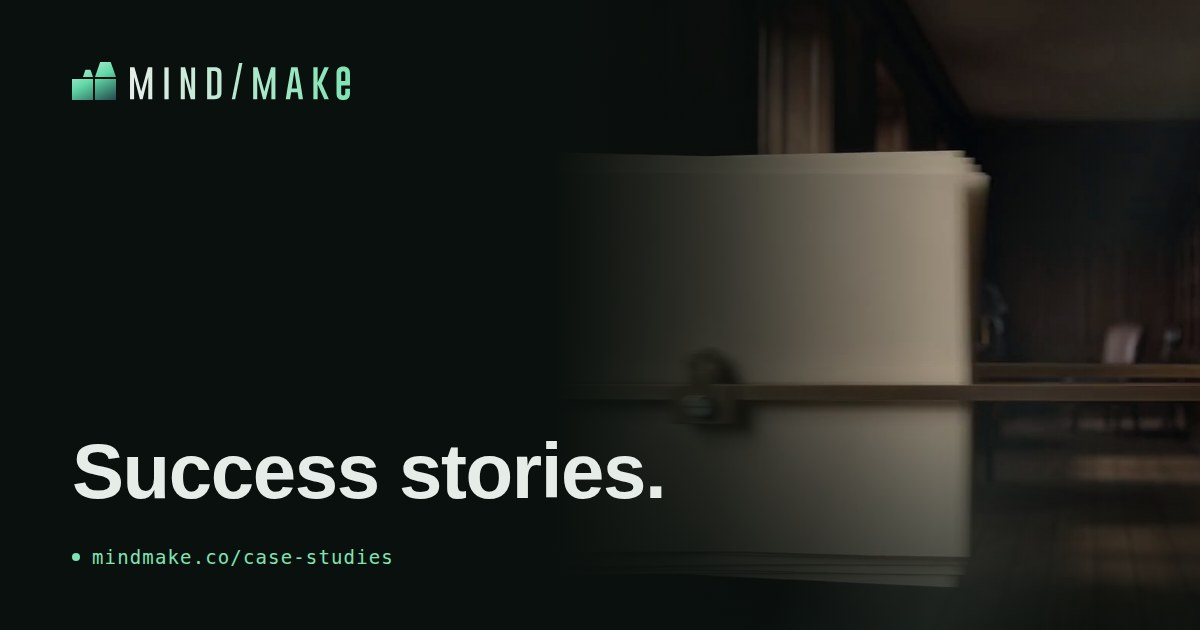
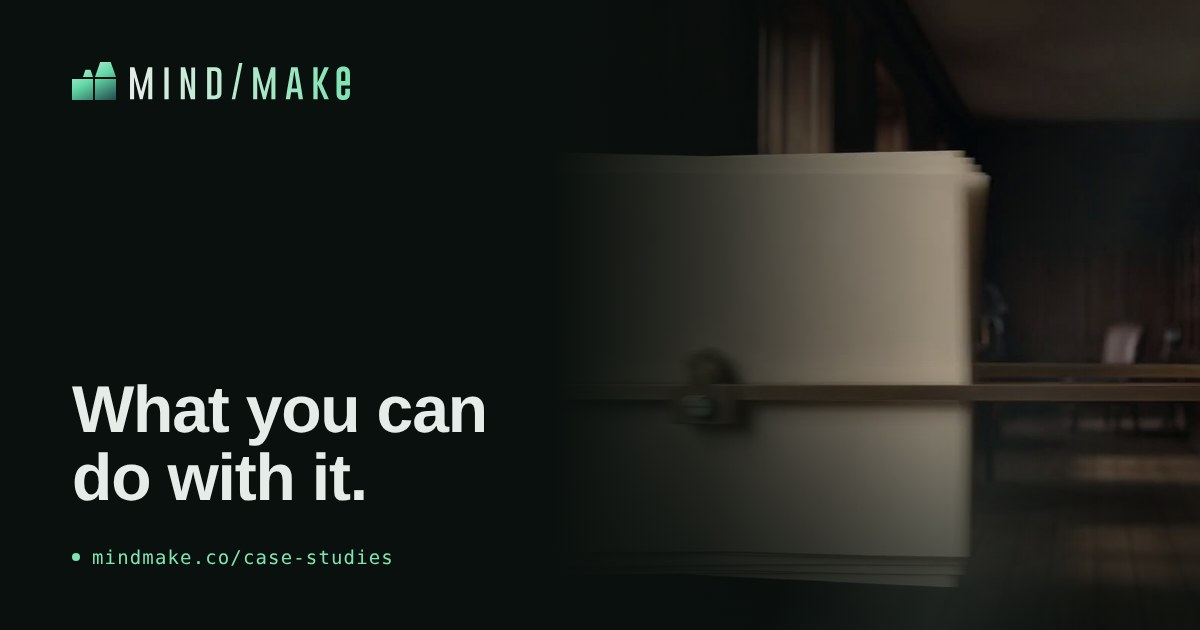
One library: "What you can do with it." (approved)
Krish approved mock v2 on 4 November 2026 ("approved, merge the mock").

- /case-studies is "What you can do with it.": the heading sits inside the
  finder on its one left edge, then a filled switch (AI brain / AI revenue
  engine) above that product's situations. The result archive below is
  "Every result on the record."
- /ai-brain shows only the brain's situations; /ai-gtm shows only the
  revenue engine's, in place of the single testimonial.
- The menu, page metadata, social plate and shared language say
  "What you can do"; the homepage's two links become one.
- Arrow keys move only through the chosen product's situations.
- /new-age-leadership keeps every situation, with no switch.
- discoverability-check honours PLAYWRIGHT_CHROMIUM like the other checks.

The route lock is regenerated in this commit for these intended edits.

Claude-Session: https://claude.ai/code/session_01JRhKyrb4ihPjkr4JWALfNp

Changed region(s): [[0.0617, 0.6032, 0.555, 0.8143], [0.0617, 0.8746, 0.3392, 0.9048]]

diff --git a/src/components/homepage-release/markup.ts b/src/components/homepage-release/markup.ts
@@ -51,16 +51,16 @@ export const homepageMarkup = `<a class="skip-link" href="#history">Skip to the 
                 </div>
               </section>
             </div></div></section>
-      ${homepageSectionsMarkup()}<section id="footer" class="r3-footer r3-reveal" data-component="footer"><div class="r3-variant preview-desktop"><footer class="site-footer" data-structure-desktop="rail" data-density-desktop="compact" data-brand="full" data-statement="short" data-routes="single" data-legal="bottom" data-copyright="short" data-ground="dark" data-rule="accent" data-reveal="scroll"><div class="brand-block"><a class="brand" href="/" aria-label="Mindmake home"><img class="mark" src="${asset0}" alt=""><img class="wordmark" src="${asset1}" alt="Mindmake"></a><p class="footer-statement">Keep your edge as AI<br>changes the market.</p><a class="mm-subscribe-cta" href="https://makeyourmindup.ai" target="_blank" rel="noreferrer" data-subscribe-source="homepage_footer">Subscribe for free <span aria-hidden="true">↗</span></a></div><nav class="footer-routes" aria-label="Footer navigation"><a href="/">Home</a><a href="/ai-brain">Build your AI brain</a><a href="/ai-gtm">Build your AI revenue engine</a><a href="/case-studies">Success stories</a><a href="/blog">Ideas you can use</a><a href="/faq">Questions we get asked</a><a href="/about">About us</a><a href="https://makeyourmindup.ai" target="_blank" rel="noreferrer">Media</a><a href="/start">Start building your AI brain</a></nav><nav class="legal" aria-label="Legal navigation"><a href="/privacy">Privacy</a><a href="/terms">Terms</a></nav><small>© 2026 Mindmake. <span class="mm-entity-note"><span>Mindmake is a Mindmaker LLC company.</span> <span>Mindmaker Ltd in the UK.</span></span></small></footer></div><div class="r3-variant preview-mobile"><footer class="site-footer" data-structure-mobile="compact" data-density-mobile="compact" data-brand="full" data-statement="short" data-routes="single" data-legal="bottom" data-copyright="short" data-ground="dark" data-rule="accent" data-reveal="scroll"><div class="brand-block"><a class="brand" href="/" aria-label="Mindmake home"><img class="mark" src="${asset0}" alt=""><img class="wordmark" src="${asset1}" alt="Mindmake"></a><p class="footer-statement">Keep your edge as AI<br>changes the market.</p><a class="mm-subscribe-cta" href="https://makeyourmindup.ai" target="_blank" rel="noreferrer" data-subscribe-source="homepage_footer">Subscribe for free <span aria-hidden="true">↗</span></a></div><nav class="legal" aria-label="Legal navigation"><a href="/privacy">Privacy</a><a href="/terms">Terms</a></nav><small>© 2026 Mindmake. <span class="mm-entity-note"><span>Mindmake is a Mindmaker LLC company.</span> <span>Mindmaker Ltd in the UK.</span></span></small></footer></div></section>
+      ${homepageSectionsMarkup()}<section id="footer" class="r3-footer r3-reveal" data-component="footer"><div class="r3-variant preview-desktop"><footer class="site-footer" data-structure-desktop="rail" data-density-desktop="compact" data-brand="full" data-statement="short" data-routes="single" data-legal="bottom" data-copyright="short" data-ground="dark" data-rule="accent" data-reveal="scroll"><div class="brand-block"><a class="brand" href="/" aria-label="Mindmake home"><img class="mark" src="${asset0}" alt=""><img class="wordmark" src="${asset1}" alt="Mindmake"></a><p class="footer-statement">Keep your edge as AI<br>changes the market.</p><a class="mm-subscribe-cta" href="https://makeyourmindup.ai" target="_blank" rel="noreferrer" data-subscribe-source="homepage_footer">Subscribe for free <span aria-hidden="true">↗</span></a></div><nav class="footer-routes" aria-label="Footer navigation"><a href="/">Home</a><a href="/ai-brain">Build your AI brain</a><a href="/ai-gtm">Build your AI revenue engine</a><a href="/case-studies">What you can do</a><a href="/blog">Ideas you can use</a><a href="/faq">Questions we get asked</a><a href="/about">About us</a><a href="https://makeyourmindup.ai" target="_blank" rel="noreferrer">Media</a><a href="/start">Start building your AI brain</a></nav><nav class="legal" aria-label="Legal navigation"><a href="/privacy">Privacy</a><a href="/terms">Terms</a></nav><small>© 2026 Mindmake. <span class="mm-entity-note"><span>Mindmake is a Mindmaker LLC company.</span> <span>Mindmaker Ltd in the UK.</span></span></small></footer></div><div class="r3-variant preview-mobile"><footer class="site-footer" data-structure-mobile="compact" data-density-mobile="compact" data-brand="full" data-statement="short" data-routes="single" data-legal="bottom" data-copyright="short" data-ground="dark" data-rule="accent" data-reveal="scroll"><div class="brand-block"><a class="brand" href="/" aria-label="Mindmake home"><img class="mark" src="${asset0}" alt=""><img class="wordmark" src="${asset1}" alt="Mindmake"></a><p class="footer-statement">Keep your edge as AI<br>changes the market.</p><a class="mm-subscribe-cta" href="https://makeyourmindup.ai" target="_blank" rel="noreferrer" data-subscribe-source="homepage_footer">Subscribe for free <span aria-hidden="true">↗</span></a></div><nav class="legal" aria-label="Legal navigation"><a href="/privacy">Privacy</a><a href="/terms">Terms</a></nav><small>© 2026 Mindmake. <span class="mm-entity-note"><span>Mindmake is a Mindmaker LLC company.</span> <span>Mindmaker Ltd in the UK.</span></span></small></footer></div></section>
     </main>
     <aside class="r3-navigation" aria-hidden="true" aria-label="Site navigation" role="dialog" aria-modal="true" inert><div class="r3-variant preview-desktop"><div class="site-frame" data-structure-desktop="index" data-scale-desktop="balanced" data-density-desktop="balanced" data-order="build" data-secondary="footer" data-active="rule" data-action="bar" data-ground="solid" data-entrance="stepped">
               
               <div class="ground" aria-hidden="true"></div>
               <header class="site-masthead"><a class="brand" href="/" aria-label="Mindmake home" tabindex="-1"><img class="mark" src="${asset0}" alt=""><img class="wordmark" src="${asset1}" alt="Mindmake"></a><button class="menu-control" type="button" aria-label="Close navigation"><b>Close</b><i aria-hidden="true"></i></button></header>
-              <div class="menu-surface"><nav class="primary-routes" aria-label="Main navigation"><a href="/">Home</a><a href="/ai-brain">Build your AI brain</a><a href="/ai-gtm"><span>Build your AI revenue<span class="mm-route-tail"> engine</span></span></a><a href="/case-studies">Success stories</a><a href="/blog">Ideas you can use</a><a href="/faq">Questions we get asked</a><a href="/about">About us</a><a href="https://makeyourmindup.ai" target="_blank" rel="noreferrer" class="mm-route-badged" data-badge="Subscribe for free">Media</a></nav><a class="start-action" type="button" href="/start">Start building your AI brain <span aria-hidden="true">→</span></a><nav class="secondary-routes" aria-label="Additional navigation"><a href="/privacy">Privacy</a><a href="/terms">Terms</a></nav></div>
+              <div class="menu-surface"><nav class="primary-routes" aria-label="Main navigation"><a href="/">Home</a><a href="/ai-brain">Build your AI brain</a><a href="/ai-gtm"><span>Build your AI revenue<span class="mm-route-tail"> engine</span></span></a><a href="/case-studies">What you can do</a><a href="/blog">Ideas you can use</a><a href="/faq">Questions we get asked</a><a href="/about">About us</a><a href="https://makeyourmindup.ai" target="_blank" rel="noreferrer" class="mm-route-badged" data-badge="Subscribe for free">Media</a></nav><a class="start-action" type="button" href="/start">Start building your AI brain <span aria-hidden="true">→</span></a><nav class="secondary-routes" aria-label="Additional navigation"><a href="/privacy">Privacy</a><a href="/terms">Terms</a></nav></div>
             </div></div><div class="r3-variant preview-mobile"><div class="site-frame" data-structure-mobile="list" data-scale-mobile="balanced" data-density-mobile="balanced" data-order="build" data-secondary="footer" data-active="rule" data-action="bar" data-ground="solid" data-entrance="stepped">
               
               <div class="ground" aria-hidden="true"></div>
               <header class="site-masthead"><a class="brand" href="/" aria-label="Mindmake home" tabindex="-1"><img class="mark" src="${asset0}" alt=""><img class="wordmark" src="${asset1}" alt="Mindmake"></a><button class="menu-control" type="button" aria-label="Close navigation"><b>Close</b><i aria-hidden="true"></i></button></header>
-              <div class="menu-surface"><nav class="primary-routes" aria-label="Main navigation"><a href="/">Home</a><a href="/ai-brain">Build your AI brain</a><a href="/ai-gtm"><span>Build your AI revenue<span class="mm-route-tail"> engine</span></span></a><a href="/case-studies">Success stories</a><a href="/blog">Ideas you can use</a><a href="/faq">Questions we get asked</a><a href="/about">About us</a><a href="https://makeyourmindup.ai" target="_blank" rel="noreferrer" class="mm-route-badged" data-badge="Subscribe for free">Media</a></nav><a class="start-action" type="button" href="/start">Start building your AI brain <span aria-hidden="true">→</span></a><nav class="secondary-routes" aria-label="Additional navigation"><a href="/privacy">Privacy</a><a href="/terms">Terms</a></nav></div>
+              <div class="menu-surface"><nav class="primary-routes" aria-label="Main navigation"><a href="/">Home</a><a href="/ai-brain">Build your AI brain</a><a href="/ai-gtm"><span>Build your AI revenue<span class="mm-route-tail"> engine</span></span></a><a href="/case-studies">What you can do</a><a href="/blog">Ideas you can use</a><a href="/faq">Questions we get asked</a><a href="/about">About us</a><a href="https://makeyourmindup.ai" target="_blank" rel="noreferrer" class="mm-route-badged" data-badge="Subscribe for free">Media</a></nav><a class="start-action" type="button" href="/start">Start building your AI brain <span aria-hidden="true">→</span></a><nav class="secondary-routes" aria-label="Additional navigation"><a href="/privacy">Privacy</a><a href="/terms">Terms</a></nav></div>
             </div></div></aside>`;

diff --git a/src/components/leadership-chapters/storyFinder.ts b/src/components/leadership-chapters/storyFinder.ts
@@ -74,29 +74,31 @@ export interface StoryFinderMarkupOptions {
   kicker?: boolean;
   /**
    * Which product's stories (proposal for Krish, 2026-11-04: one library, one
-   * card, sorted by product). A product page shows only its own; "all" is the
-   * library on /case-studies, which opens with the choice of product.
+   * card, sorted by product; approved 4 November 2026). A product page shows
+   * only its own; "library" is /case-studies, which opens with the choice of
+   * product. Left out, every situation shows with no choice, as on
+   * /new-age-leadership.
    */
-  door?: "brain" | "gtm" | "all";
+  door?: "brain" | "gtm" | "library";
   /** A page heading and line set inside the finder, so they share its one left edge and its ground. */
   intro?: { title: string; lede: string };
 }
 
 const DOOR_LABEL = { brain: "AI brain", gtm: "AI revenue engine" } as const;
 
-export function storyFinderMarkup(stories: readonly LeadershipStory[], { kicker = true, door = "all", intro }: StoryFinderMarkupOptions = {}) {
-  const shown = door === "all" ? SITUATIONS : SITUATIONS.filter((s) => s.door === door);
+export function storyFinderMarkup(stories: readonly LeadershipStory[], { kicker = true, door, intro }: StoryFinderMarkupOptions = {}) {
+  const shown = door === "brain" || door === "gtm" ? SITUATIONS.filter((s) => s.door === door) : SITUATIONS;
   const first = shown[0]?.door ?? "brain";
-  const tabs = shown.map((s, i) => `<button type="button" role="tab" id="finder-tab-${s.id}" aria-controls="finder-panel-${s.id}" aria-selected="${i === 0}" tabindex="${i === 0 ? 0 : -1}" data-finder-tab="${s.id}" data-finder-door="${s.door}"${door === "all" && s.door !== first ? " hidden" : ""}>${s.label}</button>`).join("");
-  const doors = door === "all" ? `<div class="finder-doors" role="group" aria-label="What do you want to build?">${(["brain", "gtm"] as const).map((d) => `<button type="button" data-finder-pick="${d}" aria-pressed="${d === first}">${DOOR_LABEL[d]}</button>`).join("")}</div>` : "";
+  const tabs = shown.map((s, i) => `<button type="button" role="tab" id="finder-tab-${s.id}" aria-controls="finder-panel-${s.id}" aria-selected="${i === 0}" tabindex="${i === 0 ? 0 : -1}" data-finder-tab="${s.id}" data-finder-door="${s.door}"${door === "library" && s.door !== first ? " hidden" : ""}>${s.label}</button>`).join("");
+  const doors = door === "library" ? `<div class="finder-doors" role="group" aria-label="What do you want to build?">${(["brain", "gtm"] as const).map((d) => `<button type="button" data-finder-pick="${d}" aria-pressed="${d === first}">${DOOR_LABEL[d]}</button>`).join("")}</div>` : "";
   const panels = shown.map((s, i) => {
     const cards = s.cards.map((start, n) => card(storyByStart(stories, start), s.door, `${s.id}-${n + 1}`)).join("");
     return `<div class="finder-panel${i === 0 ? " is-active" : ""}" role="tabpanel" id="finder-panel-${s.id}" aria-labelledby="finder-tab-${s.id}" data-finder-panel="${s.id}"><h3 class="finder-situation">${s.label}</h3><ul class="finder-rail" data-finder-rail>${cards}</ul><div class="finder-nav"><button type="button" data-finder-prev aria-label="Previous story">←</button><p><span data-finder-at>1</span> of ${s.cards.length}</p><button type="button" data-finder-next aria-label="Next story">→</button></div></div>`;
   }).join("");
   const label = kicker ? `<p class="kicker" id="proof-title"><span></span>What your AI Brain makes possible</p>` : "";
-  const question = door === "all" ? "What do you want to build?" : "Where would you start?";
+  const question = door === "library" ? "What do you want to build?" : "Where would you start?";
   const head = intro ? `<div class="finder-intro"><h1 id="library-title">${esc(intro.title)}</h1><p>${esc(intro.lede)}</p></div>` : "";
-  return `<div class="story-finder${door === "all" ? " is-library" : ""}" data-story-finder>${head}${label}<h2 class="finder-question">${question}</h2>${doors}<div class="finder-tabs" role="tablist" aria-label="Where would you start?">${tabs}</div><div class="finder-panels">${panels}</div><dialog class="finder-sheet" data-finder-sheet aria-label="Story"><button type="button" class="finder-close" data-finder-close aria-label="Close">×</button><div data-finder-sheet-body></div></dialog></div>`;
+  return `<div class="story-finder${door === "library" ? " is-library" : ""}" data-story-finder>${head}${label}<h2 class="finder-question">${question}</h2>${doors}<div class="finder-tabs" role="tablist" aria-label="Where would you start?">${tabs}</div><div class="finder-panels">${panels}</div><dialog class="finder-sheet" data-finder-sheet aria-label="Story"><button type="button" class="finder-close" data-finder-close aria-label="Close">×</button><div data-finder-sheet-body></div></dialog></div>`;
 }
 
 export interface StoryFinderOptions {
@@ -146,11 +148,14 @@ export function mountStoryFinder(root: HTMLElement, { reduced, onStart }: StoryF
     tab.addEventListener("click", () => select(i), { signal });
     tab.addEventListener("keydown", (event) => {
       const step = event.key === "ArrowRight" || event.key === "ArrowDown" ? 1 : event.key === "ArrowLeft" || event.key === "ArrowUp" ? -1 : 0;
-      if (event.key === "Home") { event.preventDefault(); select(0, true); return; }
-      if (event.key === "End") { event.preventDefault(); select(tabs.length - 1, true); return; }
+      /* Only the chosen product's situations are tabs the reader can reach. */
+      const shown = tabs.map((_, n) => n).filter((n) => !tabs[n].hidden);
+      const at = shown.indexOf(i);
+      if (event.key === "Home") { event.preventDefault(); select(shown[0], true); return; }
+      if (event.key === "End") { event.preventDefault(); select(shown[shown.length - 1], true); return; }
       if (!step) return;
       event.preventDefault();
-      select((i + step + tabs.length) % tabs.length, true);
+      select(shown[(at + step + shown.length) % shown.length], true);
     }, { signal });
   });
 

diff --git a/src/components/homepage-release/homepageSections.ts b/src/components/homepage-release/homepageSections.ts
@@ -107,7 +107,7 @@ export function homepageSectionsMarkup() {
   const acts = leadershipScenes.map(([, poster], index) => `<li>${cardImage(poster)}<b>${ACTS[index].word}</b><span>${ACTS[index].line}</span></li>`).join("");
   return `<section id="history" class="hs-section hs-problem" aria-labelledby="hs-problem-title"><div class="hs-inner"><h2 id="hs-problem-title" class="hs-title">Every new technology asks us to change how we think.</h2><p class="hs-lede">History shows we resist new technology at first. With AI, resisting is the fastest way to become replaceable. The answer is to use it to make yourself better, not only to make things easier.</p><div class="hs-rail" data-hs-rail><ul class="hs-eras" data-hs-rail-track aria-label="Four times we have been here before, oldest first">${ERAS.map(eraMarkup).join("")}</ul>${railNav("era", ERAS.map((era) => era.stop))}</div><p class="hs-close">Every time, the people who kept their own judgement and put it to work came out ahead.</p></div></section>
       <section class="hs-section hs-how" aria-labelledby="hs-how-title"><div class="hs-inner"><h2 id="hs-how-title" class="hs-title">An AI chief of staff knows how you think.</h2><p class="hs-lede">Your AI brain is a private memory for your AI tools, so they get smarter over time instead of forgetting. It holds what you want to be good at, your taste and your standards, so you can trust its answers.</p><div class="nal-page mm-home-leadership hs-org"><div class="hybrid-organisation is-active"><p class="instrument-label"><span></span>New-age leadership</p>${organisationGridMarkup}</div></div><p class="hs-carries"><span><b>AI carries</b> gather, connect, compare, monitor, prepare</span> <span><b>You keep</b> taste, judgement, relationships, the decision</span></p><ul class="hs-acts" aria-label="What the AI carries, in three steps">${acts}</ul></div></section>
-      <section class="hs-section hs-get" aria-labelledby="hs-get-title"><div class="hs-inner"><h2 id="hs-get-title" class="hs-title">We build yours with you in 30 days, and teach you to grow it.</h2><p class="hs-lede">It does not need your company's sensitive data. Your goals, ideas and habits are enough to start.</p><ul class="hs-proof">${PROOF.map(proofMarkup).join("")}</ul><p class="hs-proof-links"><a href="/ai-brain#stories">See where you would start</a> <a href="/case-studies">Success stories</a></p><div class="hs-start">${startButton()}</div></div></section>
+      <section class="hs-section hs-get" aria-labelledby="hs-get-title"><div class="hs-inner"><h2 id="hs-get-title" class="hs-title">We build yours with you in 30 days, and teach you to grow it.</h2><p class="hs-lede">It does not need your company's sensitive data. Your goals, ideas and habits are enough to start.</p><ul class="hs-proof">${PROOF.map(proofMarkup).join("")}</ul><p class="hs-proof-links"><a href="/case-studies">See what you can do with it</a></p><div class="hs-start">${startButton()}</div></div></section>
       `;
 }
 

diff --git a/src/test/ai-gtm-page.test.tsx b/src/test/ai-gtm-page.test.tsx
@@ -77,7 +77,8 @@ describe("/ai-gtm on the server", () => {
     for (const item of ["Pricing model and buyer test", "Positioning and messaging", "AI-native org chart", "Working agents", "Product marketing launch kit", "AI market read"]) {
       expect(text(body)).toContain(item);
     }
-    expect(body).not.toContain("<details");
+    /* The only <details> are the story cards, which open in place without scripts. */
+    expect(body.replaceAll(/<details data-finder-card[\s\S]*?<\/details>/g, "")).not.toContain("<details");
   });
 
   it("carries both of each seat's states, so a reader without scripts sees the team change", () => {
@@ -112,17 +113,13 @@ describe("/ai-gtm on the server", () => {
     ]);
   });
 
-  it("quotes the result in quotation marks, with the outcome and the attribution beneath", () => {
-    const quote = "We set up an AI-native go-to-market system that made us rethink who we hire and what they do.";
-    const flat = text(body);
-    expect(flat).toContain(quote);
-    const after = text(body.slice(body.indexOf("gtm-quote")));
-    const at = after.indexOf("We set up an AI-native");
-    const who = after.indexOf("Chief Revenue Officer, data-infrastructure company");
-    const outcome = after.indexOf("A new sales path led to a paid test");
-    expect(outcome).toBeGreaterThan(at);
-    expect(who).toBeGreaterThan(outcome);
-    expect(body).toContain('href="/case-studies#story=market-moves"');
+  it("shows what leaders do with a revenue engine, and only those (Krish, 2026-11-04: one library, sorted by product)", () => {
+    /* The single testimonial gave way to the revenue engine's own situations. */
+    const tabs = [...body.matchAll(/data-finder-tab="([a-z]+)"/g)].map((match) => match[1]);
+    expect(tabs).toEqual(["team", "calls"]);
+    expect(body).not.toContain("data-finder-pick");
+    expect(text(body)).toContain("Teams working on the same account");
+    expect(body).toContain('href="/case-studies#story=team-decides"');
   });
 
   /* The acronym GTM leaves public copy (Krish, 2026-10-15); the page says
@@ -163,7 +160,6 @@ describe("/ai-gtm in the browser", () => {
 
     fireEvent.click(screen.getByLabelText(/I'm building an AI-native business/));
     expect(screen.getByText("Your first commercial team can be mostly agents.")).toBeTruthy();
-    expect(document.querySelector(".gtm-quote")!.textContent).toContain("We had a brilliant product nobody could buy");
     expect(contexts.at(-1)).toBe("I'm building an AI-native business");
     /* The four places now speak to the chosen starting point, in the same
        cells: the founder's ways are the ones shown, and no card gained or lost

diff --git a/src/pages/CaseStudies.tsx b/src/pages/CaseStudies.tsx
@@ -43,12 +43,12 @@ export default function CaseStudies() {
     <MindmakeShell onStart={openBrief} mainClassName="mm-case-route">
       <SEO
         title="What you can do with it"
-        description="Eight verified stories about the work Mindmake helped customers change and what happened next."
+        description="Real things leaders now do with their AI brain or AI revenue engine, and every result on the record."
         canonical="/case-studies"
         jsonLd={jsonLd}
       />
 
-      <StoryLibrary door="all" onStart={(door) => openBrief(door)} intro={{ title: "What you can do with it.", lede: "Real things leaders now do with their AI brain or AI revenue engine. Pick one to see what fits you." }} />
+      <StoryLibrary door="library" onStart={(door) => openBrief(door)} intro={{ title: "What you can do with it.", lede: "Real things leaders now do with their AI brain or AI revenue engine. Pick one to see what fits you." }} />
 
       <CaseProofField stories={clientStories} />
 

diff --git a/src/test/brain-narrative.test.ts b/src/test/brain-narrative.test.ts
@@ -51,7 +51,8 @@ describe("the Brain narrative", () => {
   it("ends in the finder, what stays with you, and one way in, with the other page one line away", () => {
     const doc = page();
     const close = doc.querySelector(".brain-close")!;
-    expect(close.querySelectorAll("[data-finder-tab]")).toHaveLength(5);
+    /* Only the brain's own situations (Krish, 2026-11-04: one library, sorted by product). */
+    expect([...close.querySelectorAll<HTMLElement>("[data-finder-tab]")].map((tab) => tab.dataset.finderTab)).toEqual(["ideas", "change", "hands"]);
     expect(close.querySelector(".kicker")).toBeNull();
     expect([...close.querySelectorAll(".mm-receipt-items li")].map((item) => item.textContent?.trim())).toEqual(["Your brain, built out.", "The systems that amplify you, proven.", "The confidence of being an AI era leader."]);
     expect(close.querySelectorAll("[data-mm-primary]")).toHaveLength(1);

diff --git a/src/components/mindmake/StoryLibrary.tsx b/src/components/mindmake/StoryLibrary.tsx
@@ -10,7 +10,7 @@ import "@/styles/new-age-leadership-r5.css";
  * products). One card, one sheet, one finder; a product page shows only its
  * own stories, and /case-studies shows both behind the choice of product.
  */
-export function StoryLibrary({ door, onStart, id = "stories", intro }: { door: "brain" | "gtm" | "all"; onStart: (door: "brain" | "gtm") => void; id?: string; intro?: { title: string; lede: string } }) {
+export function StoryLibrary({ door, onStart, id = "stories", intro }: { door: "brain" | "gtm" | "library"; onStart: (door: "brain" | "gtm") => void; id?: string; intro?: { title: string; lede: string } }) {
   const ref = useRef<HTMLDivElement>(null);
   const startRef = useRef(onStart);
   startRef.current = onStart;

diff --git a/src/lib/publicLinks.ts b/src/lib/publicLinks.ts
@@ -79,7 +79,7 @@ export const PRIMARY_ROUTES: ReadonlyArray<{ label: string; href: string; extern
   { label: "Build your AI revenue engine", short: "Build your AI revenue", href: "/ai-gtm" },
   /* Plainer labels that say what the reader gets (Krish, 2026-09-25). Each
      page's own title matches its label, so the click lands where it said. */
-  { label: "Success stories", href: "/case-studies" },
+  { label: "What you can do", href: "/case-studies" },
   /* Quick AI tips (/answers) merged into this page on 2026-09-25 (Krish);
      /answers now sends the reader here. */
   { label: "Ideas you can use", href: "/blog" },

diff --git a/src/components/mindmake/locked/CaseProofField.tsx b/src/components/mindmake/locked/CaseProofField.tsx
@@ -620,7 +620,7 @@ export function CaseProofField({ stories }: { stories: ClientStory[] }) {
         <div className="site-head-space" aria-hidden="true" />
         <section className="field-intro">
           <div>
-            <h1 id="fieldTitle">Success stories.</h1>
+            <h2 id="fieldTitle">Every result on the record.</h2>
           </div>
         </section>
         <section className="proof-field" aria-label="Eight client stories" data-copy-boundary>

diff --git a/src/test/brief2-public-contract.test.ts b/src/test/brief2-public-contract.test.ts
@@ -573,7 +573,7 @@ describe("the conversion contract", () => {
       "Build your AI brain",
       "Build your AI revenue engine",
       "Home",
-      "Success stories",
+      "What you can do",
       "Ideas you can use",
       "Questions we get asked",
       "About us",

diff --git a/project-documentation/website-redesign/STATE.md b/project-documentation/website-redesign/STATE.md
@@ -27,8 +27,11 @@ places, the plan steps and the two Brain panels swipe. Still open: the
 team section at 360x780 (786px). Copy is rewritten in plain words from
 Krish's 3 November v0 edits, with the Brain framed around what the leader wants
 to be good at, improve and catch up on, and no company data needed. Nothing is
-set in italic. The one story library across both products (Krish's question of
-4 November) is proposed and waits on a rendered mock.
+set in italic. The one library across both products is live: `/case-studies` is "What
+you can do with it." (menu: "What you can do") with an AI brain / AI revenue
+engine switch, and each product page shows only its own situations
+(approved by Krish, 4 November 2026). Every heading sits on the logo's left
+edge, enforced by `qa:alignment`.
 
 ## S6: three sections on every page (24 October 2026)
 

diff --git a/project-documentation/history/LOG.md b/project-documentation/history/LOG.md
@@ -22,6 +22,10 @@ in this file is a reading on the date above it, not a baseline.
   14 Sep, Salesforce 03 Sep and Shopify 28 Oct 2026, and the case-study quotes
   upright. Ledger rows `S7-MOBILE-001`, `S7-ALIGN-001`, `S7-NEWS-001`,
   `S7-UPRIGHT-002`.
+- One library, approved by Krish on 4 November 2026 ("approved, merge the
+  mock"): /case-studies is "What you can do with it." with an AI brain / AI
+  revenue engine switch, each product page shows only its own situations,
+  the menu says "What you can do". Ledger row `S7-LIBRARY-001`.
 
 ## 2026-11-03
 
